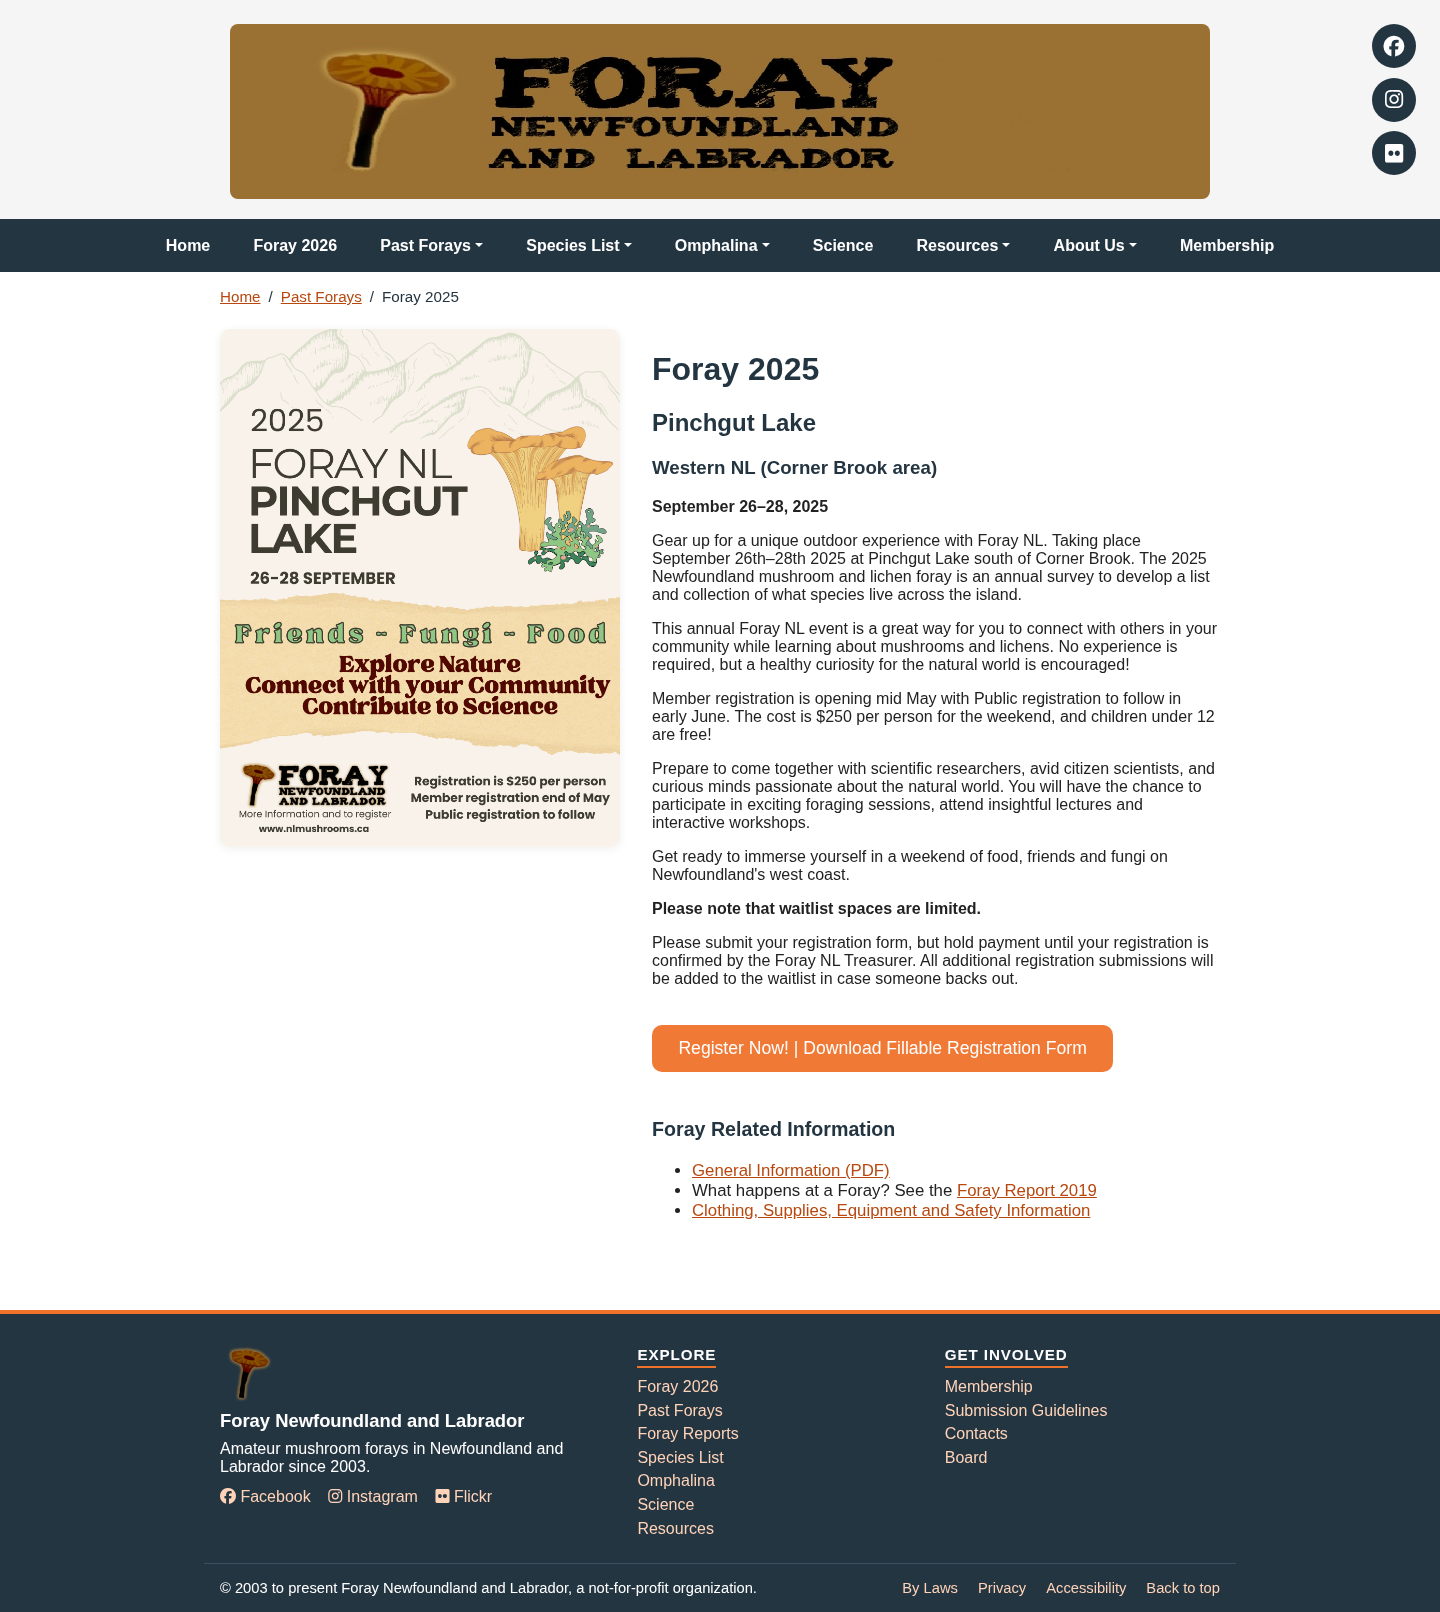
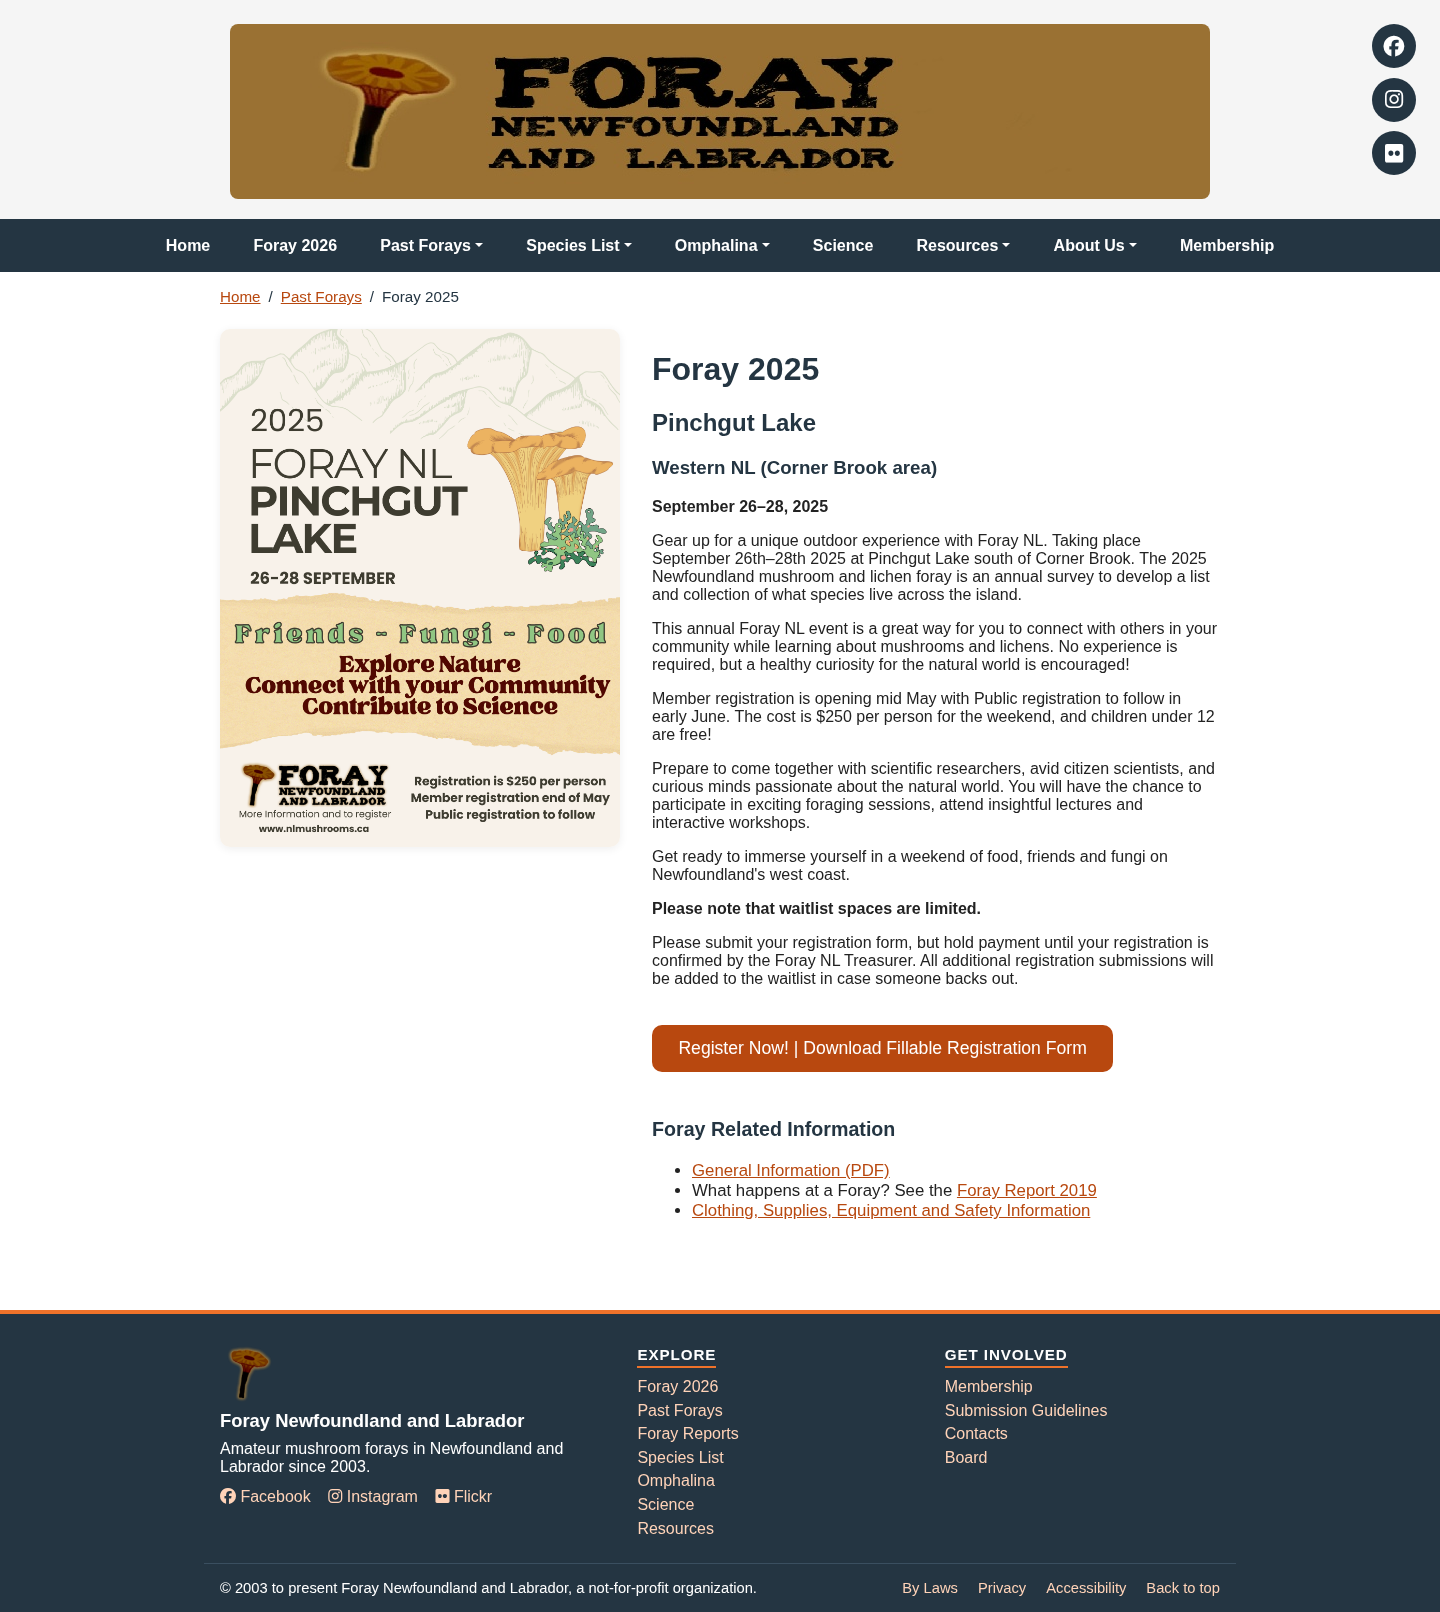
fix(a11y): darken the registration button for text contrast
White text on #ee722a failed color-contrast on foray_2025; use #b8480f (same as the other buttons).
Regenerates the CSS cache hash on every page and refreshes the foray_2025 after images.

Changed region(s): [[0.4375, 0.6203, 0.7812, 0.6824]]

diff --git a/about_us.html b/about_us.html
@@ -107,7 +107,7 @@
   <link rel="icon" type="image/png" sizes="16x16" href="/favicon-16x16.png">
   <link rel="manifest" href="/site.webmanifest">
   <link rel="stylesheet" href="assets/vendor/bootstrap/bootstrap-nav.css?v=f0215bb4f9">
-  <link rel="stylesheet" href="assets/styles/site.css?v=d81d7bcdb7">
+  <link rel="stylesheet" href="assets/styles/site.css?v=d1f443f0b1">
   <link rel="stylesheet" href="assets/vendor/fontawesome/fontawesome-social.css?v=2b50b7463a">
   <script defer src="assets/vendor/bootstrap/bootstrap.bundle.min.js?v=0833b2e9c3"></script>
   <script defer src="assets/scripts/site.js?v=0a39a5b00d"></script>

diff --git a/accessibility.html b/accessibility.html
@@ -107,7 +107,7 @@
   <link rel="icon" type="image/png" sizes="16x16" href="/favicon-16x16.png">
   <link rel="manifest" href="/site.webmanifest">
   <link rel="stylesheet" href="assets/vendor/bootstrap/bootstrap-nav.css?v=f0215bb4f9">
-  <link rel="stylesheet" href="assets/styles/site.css?v=d81d7bcdb7">
+  <link rel="stylesheet" href="assets/styles/site.css?v=d1f443f0b1">
   <link rel="stylesheet" href="assets/vendor/fontawesome/fontawesome-social.css?v=2b50b7463a">
   <script defer src="assets/vendor/bootstrap/bootstrap.bundle.min.js?v=0833b2e9c3"></script>
   <script defer src="assets/scripts/site.js?v=0a39a5b00d"></script>

diff --git a/articles_fungi_magazine.html b/articles_fungi_magazine.html
@@ -113,7 +113,7 @@
   <link rel="icon" type="image/png" sizes="16x16" href="/favicon-16x16.png">
   <link rel="manifest" href="/site.webmanifest">
   <link rel="stylesheet" href="assets/vendor/bootstrap/bootstrap-nav.css?v=f0215bb4f9">
-  <link rel="stylesheet" href="assets/styles/site.css?v=d81d7bcdb7">
+  <link rel="stylesheet" href="assets/styles/site.css?v=d1f443f0b1">
   <link rel="stylesheet" href="assets/vendor/fontawesome/fontawesome-social.css?v=2b50b7463a">
   <script defer src="assets/vendor/bootstrap/bootstrap.bundle.min.js?v=0833b2e9c3"></script>
   <script defer src="assets/scripts/site.js?v=0a39a5b00d"></script>

diff --git a/board.html b/board.html
@@ -113,7 +113,7 @@
   <link rel="icon" type="image/png" sizes="16x16" href="/favicon-16x16.png">
   <link rel="manifest" href="/site.webmanifest">
   <link rel="stylesheet" href="assets/vendor/bootstrap/bootstrap-nav.css?v=f0215bb4f9">
-  <link rel="stylesheet" href="assets/styles/site.css?v=d81d7bcdb7">
+  <link rel="stylesheet" href="assets/styles/site.css?v=d1f443f0b1">
   <link rel="stylesheet" href="assets/vendor/fontawesome/fontawesome-social.css?v=2b50b7463a">
   <script defer src="assets/vendor/bootstrap/bootstrap.bundle.min.js?v=0833b2e9c3"></script>
   <script defer src="assets/scripts/site.js?v=0a39a5b00d"></script>

diff --git a/bylaws.html b/bylaws.html
@@ -113,7 +113,7 @@
   <link rel="icon" type="image/png" sizes="16x16" href="/favicon-16x16.png">
   <link rel="manifest" href="/site.webmanifest">
   <link rel="stylesheet" href="assets/vendor/bootstrap/bootstrap-nav.css?v=f0215bb4f9">
-  <link rel="stylesheet" href="assets/styles/site.css?v=d81d7bcdb7">
+  <link rel="stylesheet" href="assets/styles/site.css?v=d1f443f0b1">
   <link rel="stylesheet" href="assets/vendor/fontawesome/fontawesome-social.css?v=2b50b7463a">
   <script defer src="assets/vendor/bootstrap/bootstrap.bundle.min.js?v=0833b2e9c3"></script>
   <script defer src="assets/scripts/site.js?v=0a39a5b00d"></script>

diff --git a/consultants.html b/consultants.html
@@ -113,7 +113,7 @@
   <link rel="icon" type="image/png" sizes="16x16" href="/favicon-16x16.png">
   <link rel="manifest" href="/site.webmanifest">
   <link rel="stylesheet" href="assets/vendor/bootstrap/bootstrap-nav.css?v=f0215bb4f9">
-  <link rel="stylesheet" href="assets/styles/site.css?v=d81d7bcdb7">
+  <link rel="stylesheet" href="assets/styles/site.css?v=d1f443f0b1">
   <link rel="stylesheet" href="assets/vendor/fontawesome/fontawesome-social.css?v=2b50b7463a">
   <script defer src="assets/vendor/bootstrap/bootstrap.bundle.min.js?v=0833b2e9c3"></script>
   <script defer src="assets/scripts/site.js?v=0a39a5b00d"></script>

diff --git a/contacts.html b/contacts.html
@@ -113,7 +113,7 @@
   <link rel="icon" type="image/png" sizes="16x16" href="/favicon-16x16.png">
   <link rel="manifest" href="/site.webmanifest">
   <link rel="stylesheet" href="assets/vendor/bootstrap/bootstrap-nav.css?v=f0215bb4f9">
-  <link rel="stylesheet" href="assets/styles/site.css?v=d81d7bcdb7">
+  <link rel="stylesheet" href="assets/styles/site.css?v=d1f443f0b1">
   <link rel="stylesheet" href="assets/vendor/fontawesome/fontawesome-social.css?v=2b50b7463a">
   <script defer src="assets/vendor/bootstrap/bootstrap.bundle.min.js?v=0833b2e9c3"></script>
   <script defer src="assets/scripts/site.js?v=0a39a5b00d"></script>

diff --git a/current_issue.html b/current_issue.html
@@ -113,7 +113,7 @@
   <link rel="icon" type="image/png" sizes="16x16" href="/favicon-16x16.png">
   <link rel="manifest" href="/site.webmanifest">
   <link rel="stylesheet" href="assets/vendor/bootstrap/bootstrap-nav.css?v=f0215bb4f9">
-  <link rel="stylesheet" href="assets/styles/site.css?v=d81d7bcdb7">
+  <link rel="stylesheet" href="assets/styles/site.css?v=d1f443f0b1">
   <link rel="stylesheet" href="assets/vendor/fontawesome/fontawesome-social.css?v=2b50b7463a">
   <script defer src="assets/vendor/bootstrap/bootstrap.bundle.min.js?v=0833b2e9c3"></script>
   <script defer src="assets/scripts/site.js?v=0a39a5b00d"></script>

diff --git a/facebook_links.html b/facebook_links.html
@@ -113,7 +113,7 @@
   <link rel="icon" type="image/png" sizes="16x16" href="/favicon-16x16.png">
   <link rel="manifest" href="/site.webmanifest">
   <link rel="stylesheet" href="assets/vendor/bootstrap/bootstrap-nav.css?v=f0215bb4f9">
-  <link rel="stylesheet" href="assets/styles/site.css?v=d81d7bcdb7">
+  <link rel="stylesheet" href="assets/styles/site.css?v=d1f443f0b1">
   <link rel="stylesheet" href="assets/vendor/fontawesome/fontawesome-social.css?v=2b50b7463a">
   <script defer src="assets/vendor/bootstrap/bootstrap.bundle.min.js?v=0833b2e9c3"></script>
   <script defer src="assets/scripts/site.js?v=0a39a5b00d"></script>

diff --git a/flickr_image_index.html b/flickr_image_index.html
@@ -113,7 +113,7 @@
   <link rel="icon" type="image/png" sizes="16x16" href="/favicon-16x16.png">
   <link rel="manifest" href="/site.webmanifest">
   <link rel="stylesheet" href="assets/vendor/bootstrap/bootstrap-nav.css?v=f0215bb4f9">
-  <link rel="stylesheet" href="assets/styles/site.css?v=d81d7bcdb7">
+  <link rel="stylesheet" href="assets/styles/site.css?v=d1f443f0b1">
   <link rel="stylesheet" href="assets/vendor/fontawesome/fontawesome-social.css?v=2b50b7463a">
   <script defer src="assets/vendor/bootstrap/bootstrap.bundle.min.js?v=0833b2e9c3"></script>
   <script defer src="assets/scripts/site.js?v=0a39a5b00d"></script>

diff --git a/flickr_voucher_images.html b/flickr_voucher_images.html
@@ -113,7 +113,7 @@
   <link rel="icon" type="image/png" sizes="16x16" href="/favicon-16x16.png">
   <link rel="manifest" href="/site.webmanifest">
   <link rel="stylesheet" href="assets/vendor/bootstrap/bootstrap-nav.css?v=f0215bb4f9">
-  <link rel="stylesheet" href="assets/styles/site.css?v=d81d7bcdb7">
+  <link rel="stylesheet" href="assets/styles/site.css?v=d1f443f0b1">
   <link rel="stylesheet" href="assets/vendor/fontawesome/fontawesome-social.css?v=2b50b7463a">
   <script defer src="assets/vendor/bootstrap/bootstrap.bundle.min.js?v=0833b2e9c3"></script>
   <script defer src="assets/scripts/site.js?v=0a39a5b00d"></script>

diff --git a/foray_2023.html b/foray_2023.html
@@ -137,7 +137,7 @@
   <link rel="icon" type="image/png" sizes="16x16" href="/favicon-16x16.png">
   <link rel="manifest" href="/site.webmanifest">
   <link rel="stylesheet" href="assets/vendor/bootstrap/bootstrap-nav.css?v=f0215bb4f9">
-  <link rel="stylesheet" href="assets/styles/site.css?v=d81d7bcdb7">
+  <link rel="stylesheet" href="assets/styles/site.css?v=d1f443f0b1">
   <link rel="stylesheet" href="assets/vendor/fontawesome/fontawesome-social.css?v=2b50b7463a">
   <script defer src="assets/vendor/bootstrap/bootstrap.bundle.min.js?v=0833b2e9c3"></script>
   <script defer src="assets/scripts/site.js?v=0a39a5b00d"></script>
